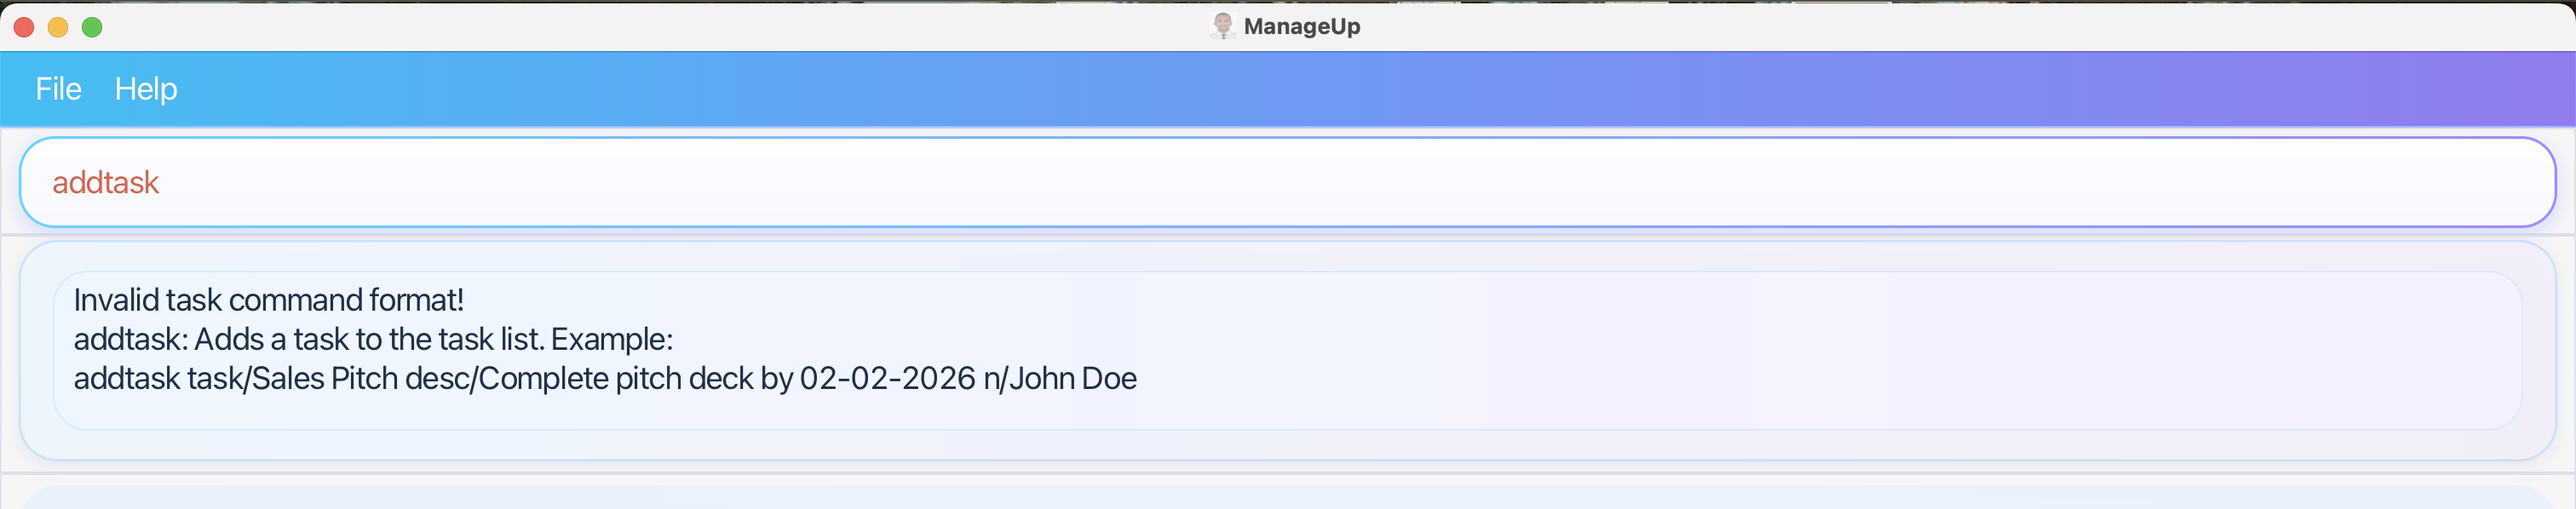
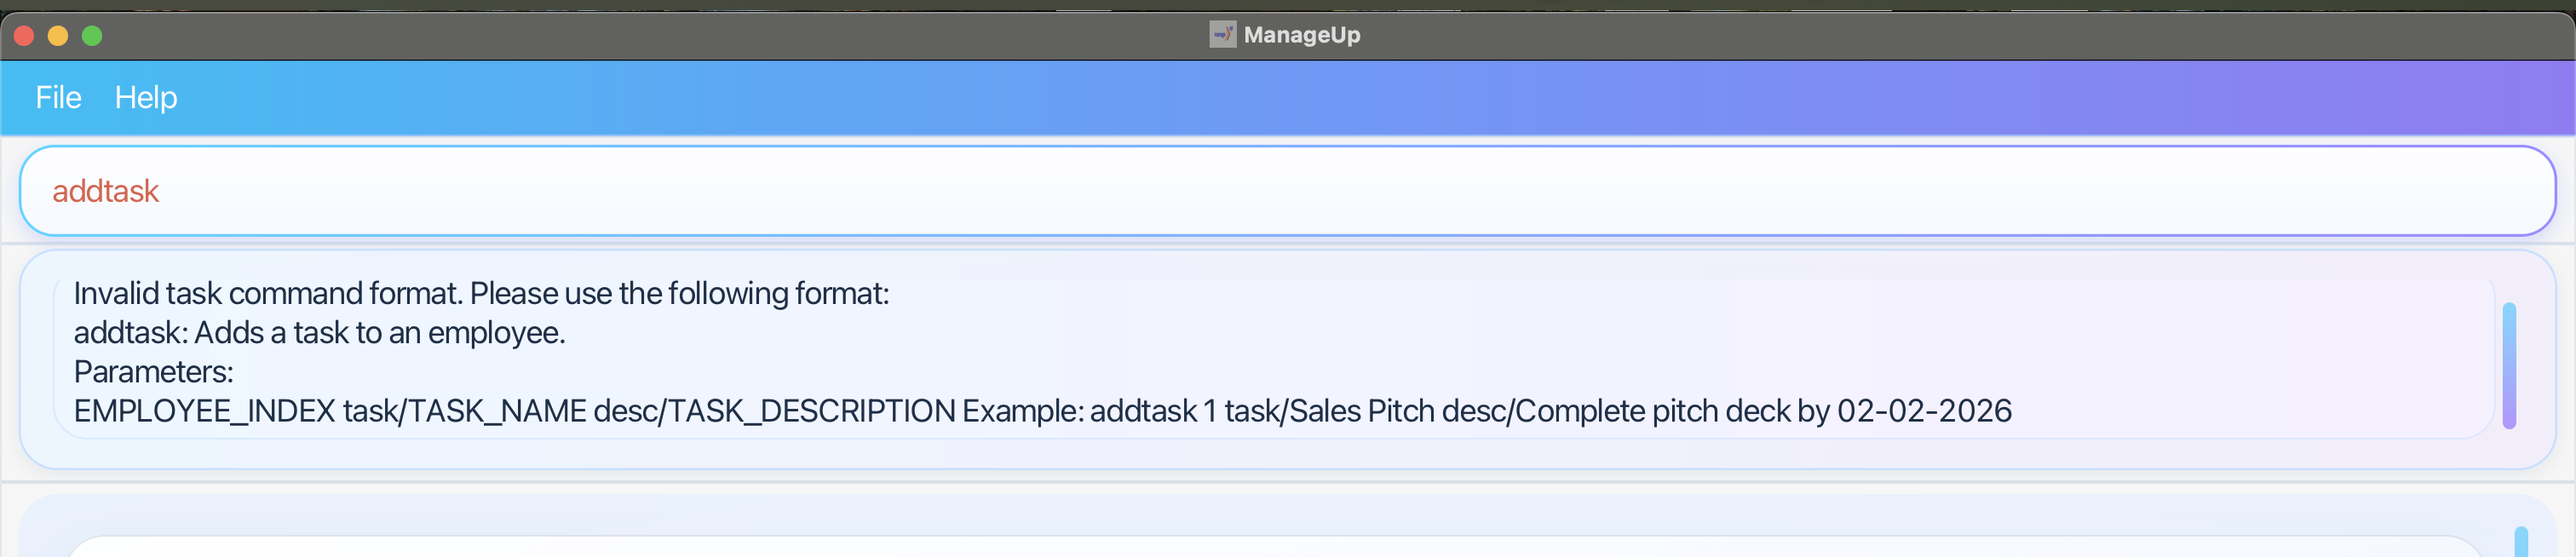
Add changes to pictures and user guide for add task

diff --git a/src/main/java/seedu/address/logic/commands/AddTaskCommand.java b/src/main/java/seedu/address/logic/commands/AddTaskCommand.java
@@ -20,10 +20,11 @@ public class AddTaskCommand extends Command {
     public static final String MESSAGE_USAGE =
             COMMAND_WORD
                     + ": Adds a task to an employee.\n"
-                    + "Parameters: "
+                    + "Parameters: \n"
+                    + "EMPLOYEE_INDEX "
                     + PREFIX_TASK_NAME + "TASK_NAME "
                     + PREFIX_TASK_DESCRIPTION + "TASK_DESCRIPTION "
-                    + "EMPLOYEE_INDEX\n"
+
                     + "Example: " + COMMAND_WORD + " "
                     + "1 "
                     + PREFIX_TASK_NAME + "Sales Pitch "

diff --git a/docs/UserGuide.md b/docs/UserGuide.md
@@ -530,21 +530,20 @@ For example, entering `delete john doe` fails because multiple displayed employe
 
 Adds a task to a specific employee.
 
-Format: `addtask task/TASK_NAME desc/TASK_DESCRIPTION n/EMPLOYEE_NAME`
+Format: `addtask EMPLOYEE_INDEX task/TASK_NAME desc/TASK_DESCRIPTION`
 
-* `EMPLOYEE_NAME` refers to the name of the employee to whom the task will be added.
-* `EMPLOYEE_NAME` must match an existing employee name exactly as stored in ManageUp and is case-sensitive.
+* `EMPLOYEE_INDEX` refers to the employee index shown in the currently displayed employee list.
 * The task will be added to that employee's personal task list and shown on the employee card.
 * The task will have an index number attached to it, to indicate task number.
 * The format and order of tags should be followed exactly as stated and no field should be left out.
 * `addtask` provides a warning message to the user with the specified format to remind users of the correct format if the command is invalid.
-* `addtask task/Prepare Report n/John Doe` is not valid because the description field is missing.
+* `addtask 1 task/Prepare Report` is not valid because the description field is missing.
 
 Examples:
-* `addtask task/Prepare Report desc/Submit by Friday n/John Doe` 
-   adds a task named `Prepare Report` with description `Submit by Friday` to employee `John Doe`.
-* `addtask task/Client Followup desc/Call client before Monday n/Amy Bee` 
-   adds a task named `Client Followup` with description `Call client before Monday` to employee `Amy Bee`.
+* `addtask 2 task/Prepare Report desc/Submit by Friday` 
+   adds a task named `Prepare Report` with description `Submit by Friday` to employee at index 2.
+* `addtask 2 task/Client Followup desc/Call client before Monday` 
+   adds a task named `Client Followup` with description `Call client before Monday` to employee at index 2.
 
   ![addTask message](images/addtaskmessage.png)
 * `addtask`
